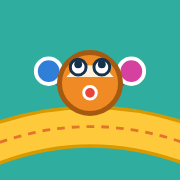
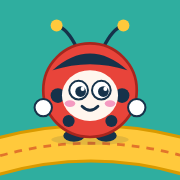
Uğur Bidik karakteri ve gülen çiçek bitişi
Claude-Session: https://claude.ai/code/session_01HzKd55A5AA6esUidV2YsPg

diff --git a/oyna/index.html b/oyna/index.html
@@ -65,7 +65,7 @@ h1,h2,h3{text-wrap:balance}
 .brand{display:flex;flex-direction:column;align-items:center;gap:2px}
 .brand h1{font-family:var(--display);font-weight:800;font-size:clamp(48px,14vw,74px);line-height:.9;margin:0}
 .brand h1 span{color:var(--red)}
-.brand .mascot{width:120px;height:120px;margin-bottom:-6px}
+.brand .mascot{width:130px;height:130px;margin-bottom:-4px}
 .brand .bid{font-weight:800;color:var(--ink);letter-spacing:.3px}
 .brand .bid b{color:var(--red)}
 .sig{font-size:12px;font-weight:800;color:var(--ink-soft);letter-spacing:1px;text-transform:uppercase;margin:4px 0 0}
@@ -141,6 +141,9 @@ h1,h2,h3{text-wrap:balance}
 .blk.g{background:var(--green)} .blk.b{background:var(--blue)} .blk.p{background:var(--purple)} .blk.o{background:var(--orange)} .blk.c{background:#0e6f7c} .blk.r{background:#d6409f}
 .bl{transform-box:fill-box;transform-origin:center}
 #kCar.blink-L .bl-L,#kCar.blink-R .bl-R{animation:wave .3s ease-in-out 3}
+.petals{transform-box:view-box;transform-origin:0 0}
+.bloom .petals{animation:bloom 1.2s ease-in-out 2}
+@keyframes bloom{50%{transform:rotate(60deg) scale(1.3)}}
 @keyframes wave{50%{transform:scale(1.7)}}
 .badges{opacity:.9}
 .blk svg text{font-family:var(--display)}
@@ -219,7 +222,7 @@ h1,h2,h3{text-wrap:balance}
     <button class="iconbtn" id="soundBtn" aria-label="Ses"></button>
   </div>
   <div class="brand">
-    <svg class="mascot" id="mascot" viewBox="-60 -60 120 120" aria-hidden="true"></svg>
+    <svg class="mascot" id="mascot" viewBox="0 0 200 200" aria-hidden="true"></svg>
     <h1>Bi<span>dik</span></h1>
     <p class="bid"><b>B</b>ilgi <b>İ</b>şlemsel <b>D</b>üşünme</p>
     <p>Düşün, planla, adım adım çöz.</p>
@@ -414,21 +417,43 @@ function star8(fill){let s="";for(let k=0;k<16;k++){const rr=k%2?32:46,a=Math.PI
 function waterArt(){return `<rect x="2" y="2" width="96" height="96" rx="12" fill="var(--water)"/><path d="M14 34q9-8 18 0t18 0 18 0 18 0M14 62q9-8 18 0t18 0 18 0 18 0" stroke="var(--water-hi)" stroke-width="5" fill="none" stroke-linecap="round"/>`}
 function tileBg(i,N){return `<rect x="3" y="3" width="94" height="94" rx="14" fill="${((i%N)+((i/N)|0))%2?"var(--tile)":"var(--tile-2)"}"/><g fill="var(--tile-dot)"><circle cx="20" cy="20" r="3"/><circle cx="80" cy="20" r="3"/><circle cx="20" cy="80" r="3"/><circle cx="80" cy="80" r="3"/></g>`}
 function blockArt(v){return v?`<path d="M50 8 L92 50 L50 92 L8 50Z" fill="var(--block)" stroke="var(--block-hi)" stroke-width="4" stroke-linejoin="round"/><path d="M50 22 L78 50 L50 78 L22 50Z" fill="var(--block-hi)" opacity=".5"/>`:`<rect x="12" y="12" width="76" height="76" rx="10" fill="var(--block)" stroke="var(--block-hi)" stroke-width="4"/><path d="M12 88 Q12 12 88 12" stroke="var(--block-hi)" stroke-width="6" fill="none"/>`}
-function finishArt(i){let g=star8("var(--red)")+`<circle cx="50" cy="50" r="22" fill="#fff" stroke="var(--ink)" stroke-width="3"/><clipPath id="fc${i}"><circle cx="50" cy="50" r="19"/></clipPath><g clip-path="url(#fc${i})">`;for(let yy=0;yy<5;yy++)for(let xx=0;xx<5;xx++) if((xx+yy)%2) g+=`<rect x="${31+xx*8}" y="${31+yy*8}" width="8" height="8" fill="var(--ink)"/>`;return g+`</g>`}
+function finishArt(i){return `<g class="finish"><ellipse cx="50" cy="88" rx="30" ry="5" fill="#16324a" opacity=".12"/>
+  <path d="M50 58 V86" stroke="#22a165" stroke-width="5" stroke-linecap="round"/>
+  <path d="M50 78 Q38 72 33 76 Q40 84 50 80Z" fill="#22a165"/><path d="M50 71 Q62 65 67 69 Q60 77 50 73Z" fill="#22a165"/>
+  <g transform="translate(50 42)"><g class="petals">${[0,60,120,180,240,300].map(a=>`<ellipse cx="0" cy="-18" rx="11" ry="15" fill="#f49ac1" stroke="#fff" stroke-width="2.5" transform="rotate(${a})"/>`).join("")}</g>
+  <circle r="13" fill="#ffc93c" stroke="#d99a00" stroke-width="2.5"/>
+  <circle cx="-4.5" cy="-2" r="2" fill="#16324a"/><circle cx="4.5" cy="-2" r="2" fill="#16324a"/>
+  <path d="M-4.5 3.5 Q0 7 4.5 3.5" stroke="#16324a" stroke-width="1.8" fill="none" stroke-linecap="round"/></g></g>`}
 const coinArt=`<g class="coin"><circle cx="50" cy="50" r="15" fill="#ffe27a" stroke="var(--rail-edge)" stroke-width="4"/><path d="M50 42v16" stroke="var(--rail-edge)" stroke-width="4" stroke-linecap="round"/></g>`;
 const keyArt=`<g class="key" transform="translate(50 50) rotate(-35)"><circle cx="-10" cy="0" r="11" fill="#ffd23f" stroke="#a87700" stroke-width="4"/><circle cx="-10" cy="0" r="4" fill="var(--tile)"/><rect x="0" y="-4" width="24" height="8" rx="3" fill="#ffd23f" stroke="#a87700" stroke-width="3"/><rect x="14" y="2" width="5" height="9" fill="#ffd23f" stroke="#a87700" stroke-width="2"/></g>`;
 const LOCK=`<g transform="translate(76 6)"><rect width="18" height="15" y="7" rx="3" fill="var(--ink)"/><path d="M3.5 8V5a5.5 5.5 0 0 1 11 0v3" stroke="var(--ink)" stroke-width="2.6" fill="none"/></g>`;
-const ROBOT=`<g class="robot">
-  <path d="M-4 -12 L4 -19" stroke="#5a6b80" stroke-width="4" stroke-linecap="round"/><path d="M-4 12 L4 19" stroke="#5a6b80" stroke-width="4" stroke-linecap="round"/>
-  <g class="bl bl-L"><circle cx="6" cy="-21" r="6.5" fill="#2f7fd8" stroke="#fff" stroke-width="2"/></g>
-  <g class="bl bl-R"><circle cx="6" cy="21" r="6.5" fill="#d6409f" stroke="#fff" stroke-width="2"/></g>
-  <rect x="-17" y="-9" width="9" height="18" rx="4" fill="#3a2a1a" opacity=".55"/>
-  <circle r="15.5" fill="#f08a24" stroke="#a65a10" stroke-width="2.5"/>
-  <path d="M3 -12 A15 15 0 0 1 3 12 Z" fill="#fff3e0"/>
-  <circle cx="8" cy="-6" r="4" fill="#fff" stroke="#16324a" stroke-width="1.5"/><circle cx="9.5" cy="-6" r="2" fill="#16324a"/>
-  <circle cx="8" cy="6" r="4" fill="#fff" stroke="#16324a" stroke-width="1.5"/><circle cx="9.5" cy="6" r="2" fill="#16324a"/>
-  <circle cx="-5" cy="0" r="3.2" fill="#e8443a" stroke="#fff" stroke-width="1.5"/>
+const ROBOT=`<g class="robot" transform="translate(-6 0) scale(.8)">
+  <path d="M2 -20 L9 -27 M2 20 L9 27 M-12 -22 L-16 -30 M-12 22 L-16 30" stroke="#16324a" stroke-width="3.5" stroke-linecap="round"/>
+  <g class="bl bl-L"><circle cx="10" cy="-30" r="7.5" fill="#2f7fd8" stroke="#fff" stroke-width="2.5"/></g>
+  <g class="bl bl-R"><circle cx="10" cy="30" r="7.5" fill="#d6409f" stroke="#fff" stroke-width="2.5"/></g>
+  <ellipse rx="27" ry="24" fill="#e8443a" stroke="#a8261e" stroke-width="2.5"/>
+  <path d="M-27 0 H8" stroke="#16324a" stroke-width="3"/>
+  <g class="spots" fill="#16324a"><circle cx="-12" cy="-11" r="5"/><circle cx="-12" cy="11" r="5"/><circle cx="2" cy="-15" r="4"/><circle cx="2" cy="15" r="4"/></g>
+  <ellipse cx="-8" cy="-8" rx="8" ry="4" fill="#fff" opacity=".35" transform="rotate(-25 -8 -8)"/>
+  <circle cx="22" cy="0" r="13" fill="#16324a"/>
+  <circle cx="27" cy="-6" r="4.5" fill="#fff"/><circle cx="27" cy="6" r="4.5" fill="#fff"/><circle cx="29" cy="-6" r="2" fill="#16324a"/><circle cx="29" cy="6" r="2" fill="#16324a"/>
+  <path d="M32 -8 Q40 -14 42 -20 M32 8 Q40 14 42 20" stroke="#16324a" stroke-width="2.5" fill="none" stroke-linecap="round"/>
+  <circle cx="42" cy="-21" r="3.5" fill="#ffc93c"/><circle cx="42" cy="21" r="3.5" fill="#ffc93c"/>
 </g>`;
+// tanıtım hali (önden); eller burada renksiz, çünkü önden bakınca sağ-sol ters görünür
+const MASCOT_FRONT=`<ellipse cx="100" cy="188" rx="58" ry="8" fill="#16324a" opacity=".12"/>
+  <path d="M80 50 Q66 22 52 18" stroke="#16324a" stroke-width="5" fill="none" stroke-linecap="round"/><circle cx="50" cy="17" r="9" fill="#ffc93c"/>
+  <path d="M120 50 Q134 22 148 18" stroke="#16324a" stroke-width="5" fill="none" stroke-linecap="round"/><circle cx="150" cy="17" r="9" fill="#ffc93c"/>
+  <ellipse cx="76" cy="182" rx="16" ry="9" fill="#16324a"/><ellipse cx="124" cy="182" rx="16" ry="9" fill="#16324a"/>
+  <circle cx="100" cy="114" r="70" fill="#e8443a" stroke="#a8261e" stroke-width="4"/>
+  <path d="M44 84 Q100 34 156 84 Q100 66 44 84Z" fill="#16324a"/>
+  <circle cx="52" cy="122" r="11" fill="#16324a"/><circle cx="148" cy="122" r="11" fill="#16324a"/><circle cx="68" cy="160" r="9" fill="#16324a"/><circle cx="132" cy="160" r="9" fill="#16324a"/>
+  <ellipse cx="100" cy="122" rx="42" ry="38" fill="#fff6ee"/>
+  <circle cx="83" cy="114" r="14" fill="#fff" stroke="#16324a" stroke-width="3"/><circle cx="86" cy="116" r="8" fill="#16324a"/><circle cx="89" cy="112" r="3" fill="#fff"/>
+  <circle cx="117" cy="114" r="14" fill="#fff" stroke="#16324a" stroke-width="3"/><circle cx="120" cy="116" r="8" fill="#16324a"/><circle cx="123" cy="112" r="3" fill="#fff"/>
+  <ellipse cx="70" cy="134" rx="8" ry="5" fill="#f49ac1"/><ellipse cx="130" cy="134" rx="8" ry="5" fill="#f49ac1"/>
+  <path d="M88 138 Q100 150 112 138" stroke="#16324a" stroke-width="4" fill="none" stroke-linecap="round"/>
+  <circle cx="30" cy="140" r="13" fill="#fff" stroke="#16324a" stroke-width="3"/><circle cx="170" cy="140" r="13" fill="#fff" stroke="#16324a" stroke-width="3"/>`;
 const CAR=ROBOT, MASCOT=ROBOT;
 function starSVG(on){return `<svg viewBox="0 0 24 24" class="${on?"on":""}"><path d="M12 2.5l2.9 6 6.6.8-4.9 4.6 1.3 6.5L12 17.2l-5.9 3.2 1.3-6.5L2.5 9.3l6.6-.8z" fill="${on?"var(--rail)":"#e3e9f0"}" stroke="${on?"var(--rail-edge)":"#c9d3de"}" stroke-width="1.5" stroke-linejoin="round"/></svg>`}
 function starsTxt(s){return "★".repeat(s)+"☆".repeat(3-s)}
@@ -693,7 +718,7 @@ function start(n,keep,daily){
 function setGoal(msg,cls){
   const g=$("yGoal"); g.className="goal"+(cls?" "+cls:"");
   if(msg){g.textContent=msg;return}
-  const parts=["Bitişe giden yolu kur"];
+  const parts=["Çiçeğe giden yolu kur"];
   if(L.coins.length) parts.push(`${L.coins.length} altının hepsinden geç`);
   if(L.key>=0) parts.push("kapıdan önce anahtarı al");
   if(L.terrain.includes("water")) parts.push("nehri köprüyle aş");
@@ -814,7 +839,8 @@ function win(){
   const stars=1+(first?1:0)+(minimal?1:0), n=L.n;
   if(isDaily){ const d=P(); const key=todayKey(); d.daily[key]=Math.max(d.daily[key]||0,stars); save(); }
   else { const d=P().yol; if((d[n]||0)<stars){d[n]=stars;save()} }
-  setGoal("Harika! Bidik bitişe ulaştı.","good");
+  setGoal("Harika! Bidik çiçeğe ulaştı.","good");
+  document.querySelectorAll("#yBoard .finish").forEach(e=>e.classList.add("bloom"));
   winCard({stars,checks:[[true,"Bidik bitişe ulaştı"],[first,"İlk denemede, ipucusuz"],[minimal,`En az parçayla (${used} / ${L.best})`]],
     msg:stars===3?"Kusursuz plan!":!minimal?"Daha kısa bir yol bulabilir misin?":"Çalıştırmadan önce yolu parmağınla izlemeyi dene.",
     onAgain:()=>isDaily?Daily.open():start(n), onNext:()=>isDaily?goHome():(n<TOTAL?start(n+1):openLevels("yol")), nextLabel:isDaily?"Ana ekran":n<TOTAL?"Sonraki":"Bölümler"});
@@ -1106,7 +1132,7 @@ function goal(msg,cls){
     g.textContent=`Bidik ${parts.join(", ")} dönmeli. “Eğer” ve “∞” bloklarıyla tek bir kural yaz.`; return;
   }
   if(L.sensor){g.textContent="Bidik duvara gelince dönmeli. “Eğer önü kapalı” bloğuyla kural yaz.";return}
-  g.textContent=(L.coins.length?`${L.coins.length} altını topla ve `:"")+"bitiş yıldızına ulaş."+(L.rel?" Sağ ve sol Bidik'e göredir.":"")+(L.chi%2===1||L.chi>2?" Yer az, akıllı kullan!":"");
+  g.textContent=(L.coins.length?`${L.coins.length} altını topla ve `:"")+"çiçeğe ulaş."+(L.rel?" Sağ ve sol Bidik'e göredir.":"")+(L.chi%2===1||L.chi>2?" Yer az, akıllı kullan!":"");
 }
 const used=()=>prog.main.length+prog.fn.length;
 function statsK(){$("kTries").textContent="Deneme: "+tries;$("kHints").textContent="İpucu: "+hints;$("kBlocks").textContent=`Blok: ${used()} · En iyi: ${L.ideal}`}
@@ -1265,7 +1291,8 @@ function win(){
   const stars=1+(first?1:0)+(minimal?1:0);
   if(isDaily){ const d=P(), key=todayKey(); d.daily[key]=Math.max(d.daily[key]||0,stars); save(); }
   else { const d=P().kod; if((d[n]||0)<stars){d[n]=stars;save()} }
-  goal("Harika! Program çalıştı.","good");
+  goal("Harika! Program çalıştı, Bidik çiçeğe ulaştı.","good");
+  document.querySelectorAll("#kBoard .finish").forEach(e=>e.classList.add("bloom"));
   winCard({stars,checks:[[true,L.bug?"Hatayı buldun ve düzelttin":"Bidik bitişe ulaştı"],[first,"İlk denemede, ipucusuz"],[minimal,`En az blokla (${u} / ${L.ideal})`]],
     msg:stars===3?"Kusursuz algoritma!":!minimal?"Daha kısa bir program yazabilir misin? Döngü, fonksiyon ya da koşul dene.":"Adım düğmesiyle programı önce kafanda çalıştırmayı dene.",
     onAgain:()=>isDaily?Daily.open():start(n), onNext:()=>isDaily?goHome():(n<TOTAL?start(n+1):openLevels("kod")),nextLabel:isDaily?"Ana ekran":n<TOTAL?"Sonraki":"Bölümler"});
@@ -1395,7 +1422,7 @@ window.bidikBack=function(){
 };
 window.__bidik={Yol,Kod,Daily};
 $("miniBot").innerHTML=MASCOT;
-$("mascot").innerHTML=`<g transform="rotate(-90) scale(1.9)">${MASCOT}</g>`;
+$("mascot").innerHTML=MASCOT_FRONT;
 goHome();
 })();
 </script>

diff --git a/index.html b/index.html
@@ -110,7 +110,19 @@ footer a{font-weight:800}
 </head><body>
 <div class="wrap">
   <header class="nav">
-    <a class="logo" href="index.html" aria-label="Bidik ana sayfa"><svg viewBox="-24 -24 48 48" aria-hidden="true"><g transform="rotate(-90) scale(.78)"><path d="M-4 -12 L4 -19" stroke="#5a6b80" stroke-width="4" stroke-linecap="round"/><path d="M-4 12 L4 19" stroke="#5a6b80" stroke-width="4" stroke-linecap="round"/><circle cx="6" cy="-21" r="6.5" fill="#2f7fd8" stroke="#fff" stroke-width="2"/><circle cx="6" cy="21" r="6.5" fill="#d6409f" stroke="#fff" stroke-width="2"/><circle r="15.5" fill="#f08a24" stroke="#a65a10" stroke-width="2.5"/><path d="M3 -12 A15 15 0 0 1 3 12 Z" fill="#fff3e0"/><circle cx="8" cy="-6" r="4" fill="#fff" stroke="#16324a" stroke-width="1.5"/><circle cx="9.5" cy="-6" r="2" fill="#16324a"/><circle cx="8" cy="6" r="4" fill="#fff" stroke="#16324a" stroke-width="1.5"/><circle cx="9.5" cy="6" r="2" fill="#16324a"/><circle cx="-5" cy="0" r="3.2" fill="#e8443a" stroke="#fff" stroke-width="1.5"/></g></svg><b style="font-weight:800">Bi<span>dik</span></b></a>
+    <a class="logo" href="index.html" aria-label="Bidik ana sayfa"><svg viewBox="0 0 200 200" aria-hidden="true"><ellipse cx="100" cy="188" rx="58" ry="8" fill="#16324a" opacity=".12"/>
+  <path d="M80 50 Q66 22 52 18" stroke="#16324a" stroke-width="5" fill="none" stroke-linecap="round"/><circle cx="50" cy="17" r="9" fill="#ffc93c"/>
+  <path d="M120 50 Q134 22 148 18" stroke="#16324a" stroke-width="5" fill="none" stroke-linecap="round"/><circle cx="150" cy="17" r="9" fill="#ffc93c"/>
+  <ellipse cx="76" cy="182" rx="16" ry="9" fill="#16324a"/><ellipse cx="124" cy="182" rx="16" ry="9" fill="#16324a"/>
+  <circle cx="100" cy="114" r="70" fill="#e8443a" stroke="#a8261e" stroke-width="4"/>
+  <path d="M44 84 Q100 34 156 84 Q100 66 44 84Z" fill="#16324a"/>
+  <circle cx="52" cy="122" r="11" fill="#16324a"/><circle cx="148" cy="122" r="11" fill="#16324a"/><circle cx="68" cy="160" r="9" fill="#16324a"/><circle cx="132" cy="160" r="9" fill="#16324a"/>
+  <ellipse cx="100" cy="122" rx="42" ry="38" fill="#fff6ee"/>
+  <circle cx="83" cy="114" r="14" fill="#fff" stroke="#16324a" stroke-width="3"/><circle cx="86" cy="116" r="8" fill="#16324a"/><circle cx="89" cy="112" r="3" fill="#fff"/>
+  <circle cx="117" cy="114" r="14" fill="#fff" stroke="#16324a" stroke-width="3"/><circle cx="120" cy="116" r="8" fill="#16324a"/><circle cx="123" cy="112" r="3" fill="#fff"/>
+  <ellipse cx="70" cy="134" rx="8" ry="5" fill="#f49ac1"/><ellipse cx="130" cy="134" rx="8" ry="5" fill="#f49ac1"/>
+  <path d="M88 138 Q100 150 112 138" stroke="#16324a" stroke-width="4" fill="none" stroke-linecap="round"/>
+  <circle cx="30" cy="140" r="13" fill="#fff" stroke="#16324a" stroke-width="3"/><circle cx="170" cy="140" r="13" fill="#fff" stroke="#16324a" stroke-width="3"/></svg><b style="font-weight:800">Bi<span>dik</span></b></a>
     <nav aria-label="Sayfa içi"><a href="#beceriler">Beceriler</a><a href="#sinifta">Sınıfta kullanım</a><a href="rehber.html">Öğretmen rehberi</a><a href="#sss">Sorular</a></nav>
   </header>
 
@@ -135,9 +147,21 @@ footer a{font-weight:800}
         <path d="M250 50 l36 36 -36 36" fill="none"/>
         <path d="M250 14 l36 36 -36 36 -36 -36z" fill="#1d5b78"/>
         <path d="M50 250 V150 H250 V250" stroke="#fff" stroke-width="7" stroke-dasharray="2 16" stroke-linecap="round" fill="none" opacity=".9"/>
-        <g transform="translate(350 250)"><polygon points="0,-34 9,-22 24,-24 22,-9 34,0 22,9 24,24 9,22 0,34 -9,22 -24,24 -22,9 -34,0 -22,-9 -24,-24 -9,-22" fill="#e8443a"/><circle r="17" fill="#fff" stroke="#16324a" stroke-width="3"/><g fill="#16324a"><rect x="-12" y="-12" width="8" height="8"/><rect x="4" y="-12" width="8" height="8"/><rect x="-4" y="-4" width="8" height="8"/><rect x="-12" y="4" width="8" height="8"/><rect x="4" y="4" width="8" height="8"/></g></g>
-        <g transform="translate(250 150) scale(1.5)"><path d="M-4 -12 L4 -19" stroke="#5a6b80" stroke-width="4" stroke-linecap="round"/><path d="M-4 12 L4 19" stroke="#5a6b80" stroke-width="4" stroke-linecap="round"/><circle cx="6" cy="-21" r="6.5" fill="#2f7fd8" stroke="#fff" stroke-width="2"/><circle cx="6" cy="21" r="6.5" fill="#d6409f" stroke="#fff" stroke-width="2"/><circle r="15.5" fill="#f08a24" stroke="#a65a10" stroke-width="2.5"/><path d="M3 -12 A15 15 0 0 1 3 12 Z" fill="#fff3e0"/><circle cx="8" cy="-6" r="4" fill="#fff" stroke="#16324a" stroke-width="1.5"/><circle cx="9.5" cy="-6" r="2" fill="#16324a"/><circle cx="8" cy="6" r="4" fill="#fff" stroke="#16324a" stroke-width="1.5"/><circle cx="9.5" cy="6" r="2" fill="#16324a"/><circle cx="-5" cy="0" r="3.2" fill="#e8443a" stroke="#fff" stroke-width="1.5"/></g>
-        <g transform="translate(18 18)"><rect width="150" height="50" rx="12" fill="#fff"/><g transform="translate(7 7)"><rect width="36" height="36" rx="8" fill="#0e6f7c"/><rect x="5" y="9" width="17" height="17" rx="4" fill="#f49ac1" stroke="#fff" stroke-width="2"/><text x="29" y="25" text-anchor="middle" font-family="Baloo 2,sans-serif" font-weight="800" font-size="16" fill="#fff">?</text></g><g transform="translate(57 7)"><rect width="36" height="36" rx="8" fill="#d6409f"/><path d="M12 28v-9a6 6 0 0 1 6-6h9M22 8l5 5-5 5" stroke="#fff" stroke-width="3.5" fill="none" stroke-linecap="round" stroke-linejoin="round"/></g><g transform="translate(107 7)"><rect width="36" height="36" rx="8" fill="#22a165"/><path d="M18 28V9M11 16l7-7 7 7" stroke="#fff" stroke-width="3.5" fill="none" stroke-linecap="round" stroke-linejoin="round"/></g></g>
+        <g transform="translate(300 200)"><path d="M50 58 V86" stroke="#22a165" stroke-width="5" stroke-linecap="round"/><path d="M50 78 Q38 72 33 76 Q40 84 50 80Z" fill="#22a165"/><path d="M50 71 Q62 65 67 69 Q60 77 50 73Z" fill="#22a165"/><g transform="translate(50 42)"><ellipse cx="0" cy="-18" rx="11" ry="15" fill="#f49ac1" stroke="#fff" stroke-width="2.5" transform="rotate(0)"/><ellipse cx="0" cy="-18" rx="11" ry="15" fill="#f49ac1" stroke="#fff" stroke-width="2.5" transform="rotate(60)"/><ellipse cx="0" cy="-18" rx="11" ry="15" fill="#f49ac1" stroke="#fff" stroke-width="2.5" transform="rotate(120)"/><ellipse cx="0" cy="-18" rx="11" ry="15" fill="#f49ac1" stroke="#fff" stroke-width="2.5" transform="rotate(180)"/><ellipse cx="0" cy="-18" rx="11" ry="15" fill="#f49ac1" stroke="#fff" stroke-width="2.5" transform="rotate(240)"/><ellipse cx="0" cy="-18" rx="11" ry="15" fill="#f49ac1" stroke="#fff" stroke-width="2.5" transform="rotate(300)"/><circle r="13" fill="#ffc93c" stroke="#d99a00" stroke-width="2.5"/><circle cx="-4.5" cy="-2" r="2" fill="#16324a"/><circle cx="4.5" cy="-2" r="2" fill="#16324a"/><path d="M-4.5 3.5 Q0 7 4.5 3.5" stroke="#16324a" stroke-width="1.8" fill="none" stroke-linecap="round"/></g></g>
+        <g transform="translate(250 150) scale(1.5)"><g class="robot" transform="translate(-6 0) scale(.8)">
+  <path d="M2 -20 L9 -27 M2 20 L9 27 M-12 -22 L-16 -30 M-12 22 L-16 30" stroke="#16324a" stroke-width="3.5" stroke-linecap="round"/>
+  <g class="bl bl-L"><circle cx="10" cy="-30" r="7.5" fill="#2f7fd8" stroke="#fff" stroke-width="2.5"/></g>
+  <g class="bl bl-R"><circle cx="10" cy="30" r="7.5" fill="#d6409f" stroke="#fff" stroke-width="2.5"/></g>
+  <ellipse rx="27" ry="24" fill="#e8443a" stroke="#a8261e" stroke-width="2.5"/>
+  <path d="M-27 0 H8" stroke="#16324a" stroke-width="3"/>
+  <g class="spots" fill="#16324a"><circle cx="-12" cy="-11" r="5"/><circle cx="-12" cy="11" r="5"/><circle cx="2" cy="-15" r="4"/><circle cx="2" cy="15" r="4"/></g>
+  <ellipse cx="-8" cy="-8" rx="8" ry="4" fill="#fff" opacity=".35" transform="rotate(-25 -8 -8)"/>
+  <circle cx="22" cy="0" r="13" fill="#16324a"/>
+  <circle cx="27" cy="-6" r="4.5" fill="#fff"/><circle cx="27" cy="6" r="4.5" fill="#fff"/><circle cx="29" cy="-6" r="2" fill="#16324a"/><circle cx="29" cy="6" r="2" fill="#16324a"/>
+  <path d="M32 -8 Q40 -14 42 -20 M32 8 Q40 14 42 20" stroke="#16324a" stroke-width="2.5" fill="none" stroke-linecap="round"/>
+  <circle cx="42" cy="-21" r="3.5" fill="#ffc93c"/><circle cx="42" cy="21" r="3.5" fill="#ffc93c"/>
+</g></g>
+      <g transform="translate(18 18)"><rect width="150" height="50" rx="12" fill="#fff"/><g transform="translate(7 7)"><rect width="36" height="36" rx="8" fill="#0e6f7c"/><rect x="5" y="9" width="17" height="17" rx="4" fill="#f49ac1" stroke="#fff" stroke-width="2"/><text x="29" y="25" text-anchor="middle" font-family="Baloo 2,sans-serif" font-weight="800" font-size="16" fill="#fff">?</text></g><g transform="translate(57 7)"><rect width="36" height="36" rx="8" fill="#d6409f"/><path d="M12 28v-9a6 6 0 0 1 6-6h9M22 8l5 5-5 5" stroke="#fff" stroke-width="3.5" fill="none" stroke-linecap="round" stroke-linejoin="round"/></g><g transform="translate(107 7)"><rect width="36" height="36" rx="8" fill="#22a165"/><path d="M18 28V9M11 16l7-7 7 7" stroke="#fff" stroke-width="3.5" fill="none" stroke-linecap="round" stroke-linejoin="round"/></g></g>
       </svg>
     </div>
   </div>
@@ -166,7 +190,7 @@ footer a{font-weight:800}
     <div class="sec-head">
       <span class="kick">İki oyun</span>
       <h2>Önce planla, sonra kodla</h2>
-      <p>Bidik, her adımda “bi-dik” diye ses çıkaran küçük bir robot. Çocuk programı çalıştırırken adımları kulağıyla da sayar.</p>
+      <p>Bidik, her adımda “bi-dik” diye ses çıkaran küçük bir uğur böceği. Çocuk programı çalıştırırken adımları kulağıyla da sayar.</p>
     </div>
     <div class="games">
       <div class="game">
@@ -201,7 +225,7 @@ footer a{font-weight:800}
       <p>Ayrıntılı ders akışı, kavram tablosu ve sorulacak sorular <a href="rehber.html">öğretmen rehberinde</a>.</p>
     </div>
     <div class="class">
-      <div class="step"><span class="t">5 dk</span><h3>Ekransız ısınma</h3><p>Bir öğrenci “robot” olur, sınıf ona “ileri, sağa dön” komutları verir.</p></div>
+      <div class="step"><span class="t">5 dk</span><h3>Ekransız ısınma</h3><p>Bir öğrenci “Bidik” olur, sınıf ona “ileri, sağa dön” komutları verir.</p></div>
       <div class="step"><span class="t">10 dk</span><h3>Tahtada birlikte</h3><p>Akıllı tahtada bir bölümü sınıfça çözün. Çalıştırmadan önce tahmin isteyin.</p></div>
       <div class="step"><span class="t">20 dk</span><h3>İkili oyun</h3><p>Öğrenciler ikişer ikişer oynar: biri planlar, diğeri bloğu koyar, sonra yer değiştirir.</p></div>
       <div class="step"><span class="t">5 dk</span><h3>Paylaşım</h3><p>“Hatanı nasıl buldun?” sorusuyla kapanış. En kısa programı yazan grubu tahtaya davet edin.</p></div>
@@ -238,7 +262,7 @@ footer a{font-weight:800}
 
 <div class="wrap" style="padding-block:52px 0">
   <div class="final">
-    <div><h2>Bidik sınıfınızı bekliyor</h2><p>Kurulum yok, hesap yok. Tarayıcıda açın ve başlayın.</p></div>
+    <div><h2>Bidik çiçeğine ulaşmak için sınıfınızı bekliyor</h2><p>Kurulum yok, hesap yok. Tarayıcıda açın ve başlayın.</p></div>
     <a class="btn" href="oyna/index.html">Hemen oyna</a>
   </div>
   <footer>

diff --git a/sw.js b/sw.js
@@ -1,5 +1,5 @@
 // Bidik çevrimdışı önbellek. Sürüm değişince eski önbellek silinir.
-const CACHE="bidik-2026-10-02-1";
+const CACHE="bidik-2026-10-02-2";
 const FILES=["./", "index.html", "rehber.html", "gizlilik.html", "oyna/index.html", "manifest.webmanifest", "simgeler/simge-192.png", "simgeler/simge-512.png", "simgeler/apple-touch-icon.png"];
 self.addEventListener("install",e=>{e.waitUntil(caches.open(CACHE).then(c=>c.addAll(FILES)).then(()=>self.skipWaiting()))});
 self.addEventListener("activate",e=>{e.waitUntil(caches.keys().then(ks=>Promise.all(ks.filter(k=>k!==CACHE).map(k=>caches.delete(k)))).then(()=>self.clients.claim()))});
